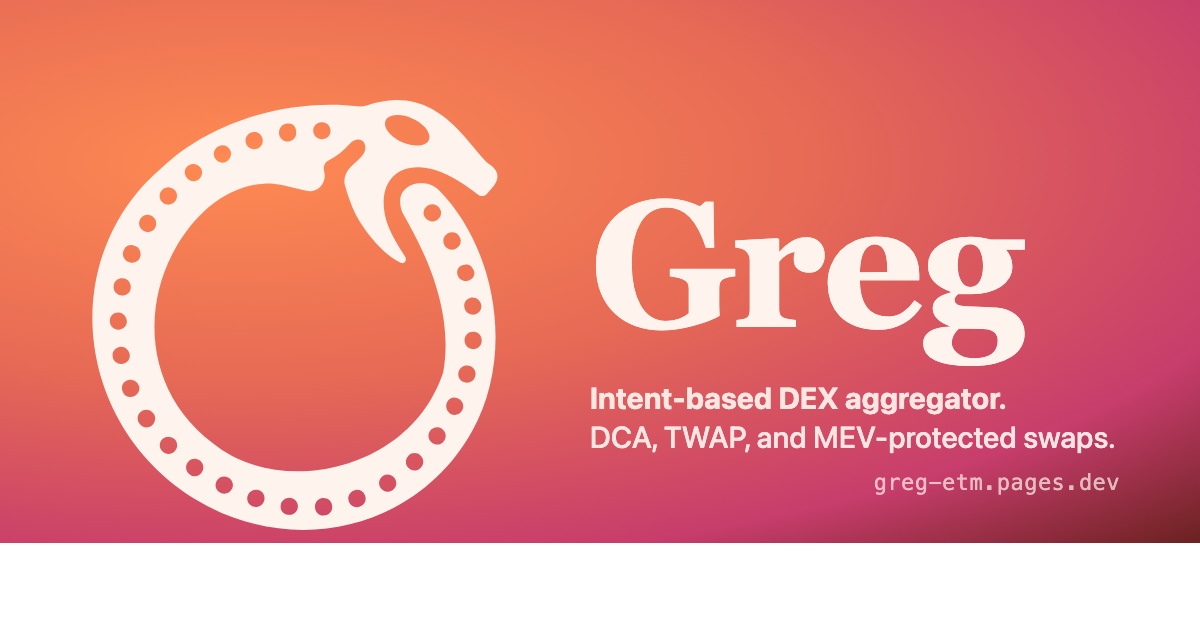
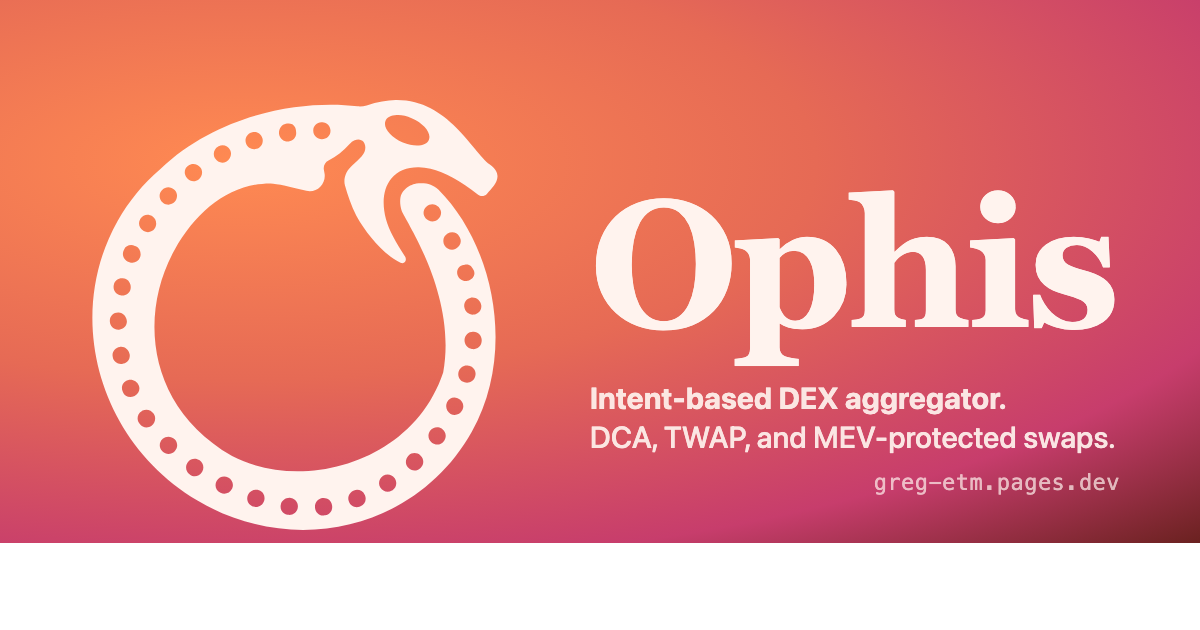
feat(brand): rename greg → ophis in user-facing surfaces (swap app)
Public brand is now **Ophis** (Greek *ophis* = serpent — same root as the
Ophie ouroboros mark). "Greg" stays as the internal codename: repo name,
branch names, dev URL, file paths (`src/greg/`, `public/greg-icon.svg`),
component class names (`Greg404Scene`), CSS-variable prefix (`--greg-*`).
None of those reach users.

This commit sweeps every place a real user would *see* the name.

## Sweeps

- `index.html`: `<title>`, og/twitter title+description+image:alt, noscript H1
  + body copy. og:description rewritten — "DCA, TWAP, and MEV-protected
  swaps. Built on CoW Protocol, run by Greg." → "Ophis runs over CoW
  Protocol."
- `public/manifest.json`: `name`, `short_name`, `description`.
- `public/og-image.png`: regenerated via headless Chrome with the Fraunces
  "Ophis" wordmark at `opsz: 144`, `SOFT: 50`. Cream Ophie on sunset
  radial bg, Plus Jakarta tagline, JetBrains Mono domain.
- `docs/brand/sheet.{html,png}`: brand-system snapshot retitled to Ophis;
  in-sheet labels ("Greg coral" → "Ophis coral") follow.
- `modules/orderProgressBar/helpers.ts`: surplus-share + benefit-share
  tweet templates → Ophis.
- `modules/orderProgressBar/.../SurplusModal.tsx`: duplicate share-tweet
  template + footer copy "Greg returns surplus..." → "Ophis returns
  surplus...".
- `modules/mevReceipt/services/exportPdf.ts`: PDF title "Greg —
  MEV-Proof Order Receipt" → "Ophis —".
- `modules/mevReceipt/containers/DownloadReceiptButton.tsx`: download
[…]

Changed region(s): [[0.6167, 0.3016, 0.9558, 0.6032], [0.555, 0.3016, 0.6167, 0.5127]]

diff --git a/apps/frontend/apps/cowswap-frontend/index.html b/apps/frontend/apps/cowswap-frontend/index.html
@@ -2,12 +2,12 @@
 
 <html lang="en">
   <head>
-    <title>Greg</title>
+    <title>Ophis</title>
     <meta charset="utf-8" />
     <meta name="viewport" content="width=device-width, initial-scale=1" />
     <meta
       name="description"
-      content="Greg — intent-based DEX aggregator. DCA, TWAP, and MEV-protected swaps for power-user retail and DAO treasuries."
+      content="Ophis — intent-based DEX aggregator. DCA, TWAP, and MEV-protected swaps for power-user retail and DAO treasuries."
     />
     <script src="/emergency.js"></script>
 
@@ -34,23 +34,23 @@
 
     <!-- Social media tags -->
     <meta property="og:type" content="website" />
-    <meta property="og:title" content="Greg — intent-based DEX aggregator" />
+    <meta property="og:title" content="Ophis — intent-based DEX aggregator" />
     <meta
       property="og:description"
-      content="DCA, TWAP, and MEV-protected swaps. Built on CoW Protocol, run by Greg."
+      content="DCA, TWAP, and MEV-protected swaps. Ophis runs over CoW Protocol."
     />
     <meta property="og:image" content="/og-image.png" />
     <meta property="og:image:width" content="1200" />
     <meta property="og:image:height" content="630" />
-    <meta property="og:image:alt" content="Greg — Ophie ouroboros mark on a sunset gradient" />
+    <meta property="og:image:alt" content="Ophis — Ophie ouroboros mark on a sunset gradient" />
     <meta property="og:url" content="https://greg-etm.pages.dev" />
 
     <!-- Twitter media tags -->
     <meta name="twitter:card" content="summary_large_image" />
-    <meta name="twitter:title" content="Greg — intent-based DEX aggregator" />
-    <meta name="twitter:description" content="DCA, TWAP, and MEV-protected swaps. Built on CoW Protocol, run by Greg." />
+    <meta name="twitter:title" content="Ophis — intent-based DEX aggregator" />
+    <meta name="twitter:description" content="DCA, TWAP, and MEV-protected swaps. Ophis runs over CoW Protocol." />
     <meta name="twitter:image" content="/og-image.png" />
-    <meta name="twitter:image:alt" content="Greg — Ophie ouroboros mark on a sunset gradient" />
+    <meta name="twitter:image:alt" content="Ophis — Ophie ouroboros mark on a sunset gradient" />
     <style>
       html,
       body {
@@ -78,9 +78,9 @@
         }
       </style>
       <main>
-        <h1>Greg requires JavaScript</h1>
+        <h1>Ophis requires JavaScript</h1>
         <p class="banner">
-          Greg is a single-page application. Please
+          Ophis is a single-page application. Please
           <a href="https://support.google.com/adsense/answer/12654?hl=en" target="_blank" rel="noopener noreferrer"
             >enable JavaScript</a
           >

diff --git a/apps/frontend/apps/cowswap-frontend/src/modules/sounds/utils/sound.test.ts b/apps/frontend/apps/cowswap-frontend/src/modules/sounds/utils/sound.test.ts
@@ -7,15 +7,15 @@ import { __soundTestUtils } from './sound'
 describe('getThemeBasedSound', () => {
   const getThemeBasedSound = __soundTestUtils.getThemeBasedSound
 
-  it('returns the default Greg send sound', () => {
+  it('returns the default Ophis send sound', () => {
     expect(getThemeBasedSound('SEND')).toBe('/audio/send.mp3')
   })
 
-  it('returns the default Greg success sound', () => {
+  it('returns the default Ophis success sound', () => {
     expect(getThemeBasedSound('SUCCESS')).toBe('/audio/success.mp3')
   })
 
-  it('returns the default Greg error sound', () => {
+  it('returns the default Ophis error sound', () => {
     expect(getThemeBasedSound('ERROR')).toBe('/audio/error.mp3')
   })
 })

diff --git a/docs/brand/sheet.html b/docs/brand/sheet.html
@@ -35,7 +35,7 @@ h2{font-family:Fraunces,Georgia,serif;font-weight:700;font-size:32px;letter-spac
 .color-chip.light{color:#131214;}
 </style>
 </head><body>
-<h1 class="sheet-title">Greg</h1>
+<h1 class="sheet-title">Ophis</h1>
 <div class="subtitle">brand-system result · 2026-05-07</div>
 
 <section>
@@ -79,7 +79,7 @@ h2{font-family:Fraunces,Georgia,serif;font-weight:700;font-size:32px;letter-spac
         <button class="btn btn-primary btn-sm">Max</button>
         <button class="btn btn-secondary">Settings</button>
       </div>
-      <span class="tile-label">Button — pill, Plus Jakarta 700, Greg coral</span>
+      <span class="tile-label">Button — pill, Plus Jakarta 700, Ophis coral</span>
     </div>
   </div>
   <div class="row" style="margin-top:24px;">
@@ -91,7 +91,7 @@ h2{font-family:Fraunces,Georgia,serif;font-weight:700;font-size:32px;letter-spac
           <div class="tab">TWAP</div>
           <div class="tab">DCA</div>
         </div>
-        <div style="padding:24px 0;text-align:center;color:#53575A;">Active tab uses Greg coral, not CoW info-blue.</div>
+        <div style="padding:24px 0;text-align:center;color:#53575A;">Active tab uses Ophis coral, not CoW info-blue.</div>
       </div>
       <span class="tile-label">Tabs · UI.COLOR_PRIMARY active state</span>
     </div>

diff --git a/apps/frontend/apps/cowswap-frontend/src/modules/mevReceipt/containers/DownloadReceiptButton.tsx b/apps/frontend/apps/cowswap-frontend/src/modules/mevReceipt/containers/DownloadReceiptButton.tsx
@@ -32,11 +32,11 @@ export const DownloadReceiptButton: React.FC<DownloadReceiptButtonProps> = ({
     const shortUid = receipt.orderUid.slice(0, 10)
     if (format === 'pdf') {
       const blob = exportPdf(receipt)
-      triggerDownload(blob, `greg-receipt-${shortUid}.pdf`)
+      triggerDownload(blob, `ophis-receipt-${shortUid}.pdf`)
     } else {
       const json = exportJson(receipt)
       const blob = new Blob([json], { type: 'application/json' })
-      triggerDownload(blob, `greg-receipt-${shortUid}.json`)
+      triggerDownload(blob, `ophis-receipt-${shortUid}.json`)
     }
   }, [input, format])
 

diff --git a/apps/frontend/apps/cowswap-frontend/src/modules/orderProgressBar/helpers.ts b/apps/frontend/apps/cowswap-frontend/src/modules/orderProgressBar/helpers.ts
@@ -18,7 +18,7 @@ export function getTwitterText(surplusAmount: string, surplusToken: string, orde
   const actionWord = isSellOrder(orderKind) ? t`got` : t`saved`
   const surplus = `${surplusAmount} ${surplusToken}`
   return encodeURIComponent(
-    t`I just ${actionWord} an extra ${surplus} on Greg.\n\nIntent-based swaps with MEV protection — https://greg-etm.pages.dev`,
+    t`I just ${actionWord} an extra ${surplus} on Ophis.\n\nIntent-based swaps with MEV protection — https://greg-etm.pages.dev`,
   )
 }
 
@@ -32,7 +32,7 @@ export function getTwitterShareUrl(surplusData: SurplusData | undefined, order: 
 }
 
 export function getTwitterTextForBenefit(benefit: string): string {
-  return encodeURIComponent(t`Did you know? ${benefit}\n\nStart swapping on Greg — https://greg-etm.pages.dev`)
+  return encodeURIComponent(t`Did you know? ${benefit}\n\nStart swapping on Ophis — https://greg-etm.pages.dev`)
 }
 
 export function getTwitterShareUrlForBenefit(benefit: string): string {

diff --git a/apps/frontend/apps/cowswap-frontend/src/modules/orderProgressBar/pure/TransactionSubmittedContent/SurplusModal.tsx b/apps/frontend/apps/cowswap-frontend/src/modules/orderProgressBar/pure/TransactionSubmittedContent/SurplusModal.tsx
@@ -195,7 +195,7 @@ export function SurplusModal(props: SurplusModalProps) {
         </StyledExternalLink>
       )}
       <p>
-        <Trans>Greg returns surplus to you when solvers find a better price than quoted.</Trans>
+        <Trans>Ophis returns surplus to you when solvers find a better price than quoted.</Trans>
       </p>
     </Wrapper>
   )
@@ -207,6 +207,6 @@ function getTwitterText(surplusAmount: string, surplusToken: string, orderKind: 
   const actionWord = isSellOrder(orderKind) ? t`got` : t`saved`
   const surplus = `${surplusAmount} ${surplusToken}`
   return encodeURIComponent(
-    t`I just ${actionWord} an extra ${surplus} on Greg.\n\nIntent-based swaps with MEV protection — https://greg-etm.pages.dev`,
+    t`I just ${actionWord} an extra ${surplus} on Ophis.\n\nIntent-based swaps with MEV protection — https://greg-etm.pages.dev`,
   )
 }

diff --git a/apps/frontend/apps/cowswap-frontend/src/modules/mevReceipt/services/exportPdf.ts b/apps/frontend/apps/cowswap-frontend/src/modules/mevReceipt/services/exportPdf.ts
@@ -11,7 +11,7 @@ export const exportPdf = (receipt: MevProofReceipt): Blob => {
   const doc = new jsPDF({ unit: 'pt', format: 'letter' })
 
   doc.setFontSize(14)
-  doc.text('Greg — MEV-Proof Order Receipt', 40, 50)
+  doc.text('Ophis — MEV-Proof Order Receipt', 40, 50)
 
   doc.setFontSize(10)
   doc.setFont('courier', 'normal')

diff --git a/apps/frontend/apps/cowswap-frontend/src/modules/mevReceipt/types.ts b/apps/frontend/apps/cowswap-frontend/src/modules/mevReceipt/types.ts
@@ -43,7 +43,7 @@ export interface MevProofReceipt {
   readonly partnerFee: PartnerFeeInfo | null
   /** Fractional surplus over the quoted minimum buyAmount; null if not settled. (executed - quoted) / quoted */
   readonly surplusVsQuote: number | null
-  /** Greg's receipt schema version. */
+  /** Ophis's receipt schema version. */
   readonly receiptVersion: '1'
   /** ISO-8601 UTC timestamp of receipt creation. */
   readonly generatedAt: string